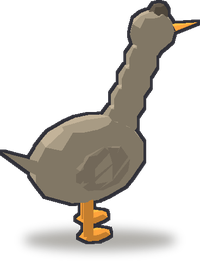
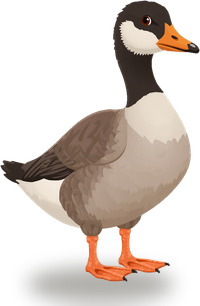
Поставить кубанского гуся
Тёмная голова и шея — самый приметный гусь из пяти, различим даже в плитке.

Claude-Session: https://claude.ai/code/session_013ovumMuRfj2SmgMR5kzGwz

diff --git a/docs/ART-TODO.md b/docs/ART-TODO.md
@@ -29,7 +29,7 @@ python3 tools/import-art.py картинка.png <id>
 
 ## Список
 
-Всего животных 19, готовы 10, одна из них временная.
+Всего животных 19, готовы 11, одна из них временная.
 
 | Готово | Файл | Порода | Постройка | Уровень | Как выглядит |
 |:---:|---|---|---|:---:|---|
@@ -43,7 +43,7 @@ python3 tools/import-art.py картинка.png <id>
 | ✅ | `breed-kuchin.png` | Кучинская юбилейная | Курятник | 6 | Рыже-бурая, золотая шея |
 | ✅ | `breed-holmgus.png` | Холмогорский гусь | Гусятник | 7 | Белый гусь, шишка на клюве |
 |  | `breed-kitay.png` | Китайский | Гусятник | 5 | Бурый, лебединая шея, шишка на лбу |
-|  | `breed-kuban.png` | Кубанский | Гусятник | 9 | Серо-бурый, тёмная полоса по шее |
+| ✅ | `breed-kuban.png` | Кубанский | Гусятник | 9 | Серо-бурый, тёмная полоса по шее |
 | ✅ | `breed-tuluz.png` | Тулузский | Гусятник | 11 | Грузный серый, кошелёк под клювом |
 | ✅ | `breed-ital.png` | Итальянский белый | Гусятник | 12 | Белый, лёгкий, без шишки |
 |  | `breed-mirgorod.png` | Миргородская | Свинарник | 9 | Рябая: розовая с чёрными пятнами |
